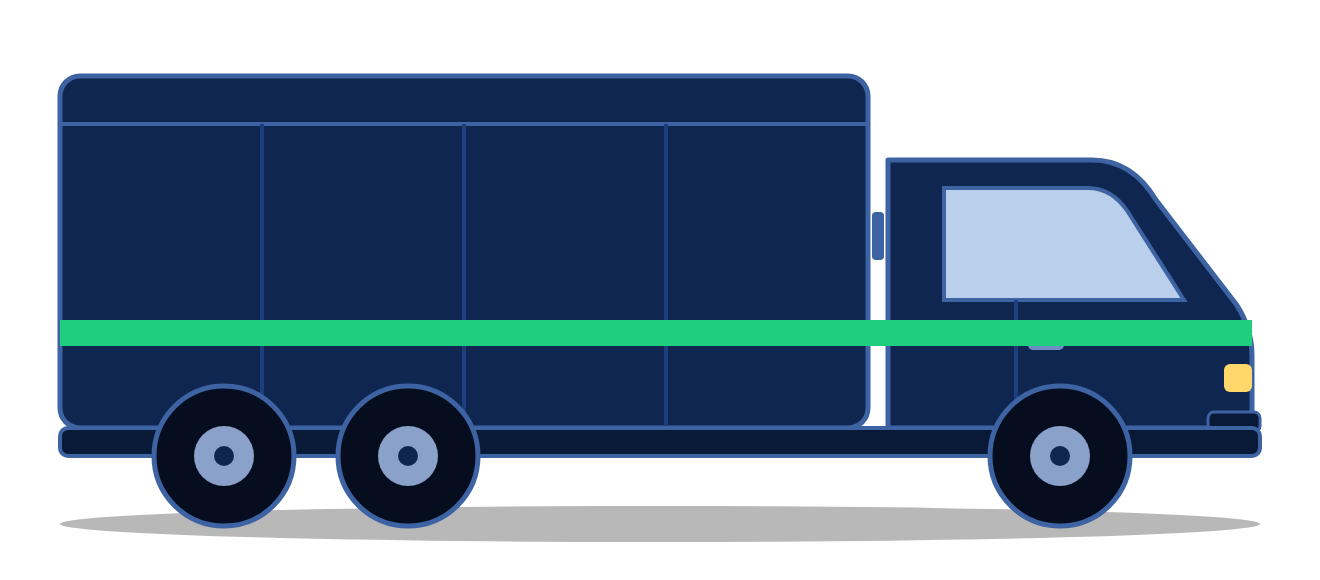
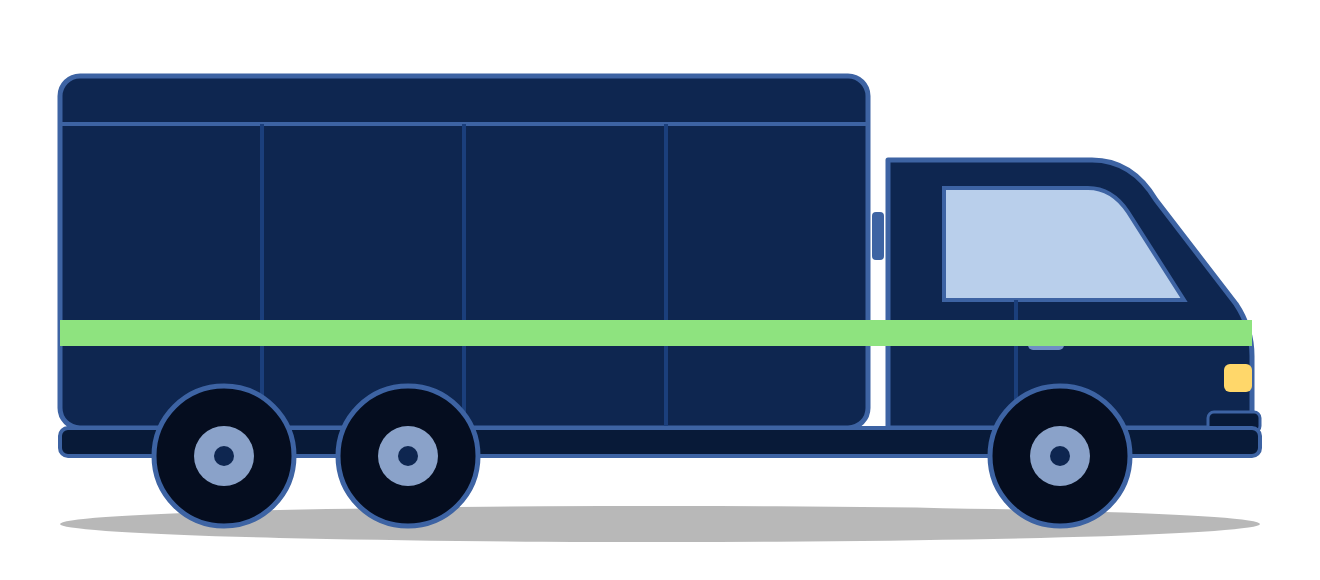
Theme: switch accent to young green (wakamidori), thinner line

Changed region(s): [[0.0311, 0.5276, 0.9629, 0.6207]]

diff --git a/public/style.css b/public/style.css
@@ -2,16 +2,16 @@
 :root {
   --bg: #0a1c3c; --card: #10294f; --card2: #163461; --line: #28477a;
   --ink: #eef3ff; --sub: #9db0d3;
-  --green: #1fcf7f; --green-ink: #04281a;
+  --green: #8ee37f; --green-ink: #0a2a10;  /* 若緑 */
   --brand: var(--green); --brand-ink: var(--green-ink);
-  --ok: #1fcf7f; --warn: #f5b83d; --crit: #ff6b6b;
+  --ok: #8ee37f; --warn: #f5b83d; --crit: #ff6b6b;
 }
 * { box-sizing: border-box; }
 html, body { margin: 0; padding: 0; }
 body { font-family: -apple-system, BlinkMacSystemFont, "Segoe UI", "Hiragino Sans", "Noto Sans JP", "Noto Sans", sans-serif; background: var(--bg); color: var(--ink); line-height: 1.45; overflow-x: hidden; }
 button { font: inherit; cursor: pointer; color: inherit; }
 a { color: var(--green); }
-h1, h2, h3 { color: var(--ink); }
+h1, h2, h3 { color: var(--ink); letter-spacing: .02em; }
 .hidden { display: none !important; }
 .muted { color: var(--sub); }
 .small { font-size: 12px; }
@@ -20,7 +20,7 @@ h1, h2, h3 { color: var(--ink); }
 .topbar, .pc header, .landing .brand { position: relative; }
 .topbar::after, .pc header::after, .landing .brand::after {
   content: ''; position: absolute; left: 50%; bottom: 0; width: 100vw; transform: translateX(-50%);
-  height: 4px; background: var(--green); pointer-events: none;
+  height: 3px; background: var(--green); pointer-events: none;
 }
 
 /* ---- ドライバーアプリ ---- */
@@ -96,7 +96,7 @@ label.f > :is(input, select, textarea) { display: block; width: 100%; margin-top
 .tag { display: inline-block; padding: 2px 9px; border-radius: 99px; font-size: 12px; font-weight: 700; background: var(--card2); color: var(--sub); border: 1px solid var(--line); }
 .tag.open { background: #3a3012; color: var(--warn); border-color: #5b4a1a; }
 .tag.offered, .tag.accepted { background: #12356b; color: #8db8ff; border-color: #234a8a; }
-.tag.inprogress { background: #0f3b2b; color: var(--green); border-color: #176a4b; }
+.tag.inprogress { background: #17381f; color: var(--green); border-color: #2f6a3a; }
 .tag.done { background: var(--card2); color: var(--sub); }
 .tag.crit { background: #4a1a1a; color: var(--crit); border-color: #7a2a2a; }
 .tag.warn { background: #3a3012; color: var(--warn); border-color: #5b4a1a; }
